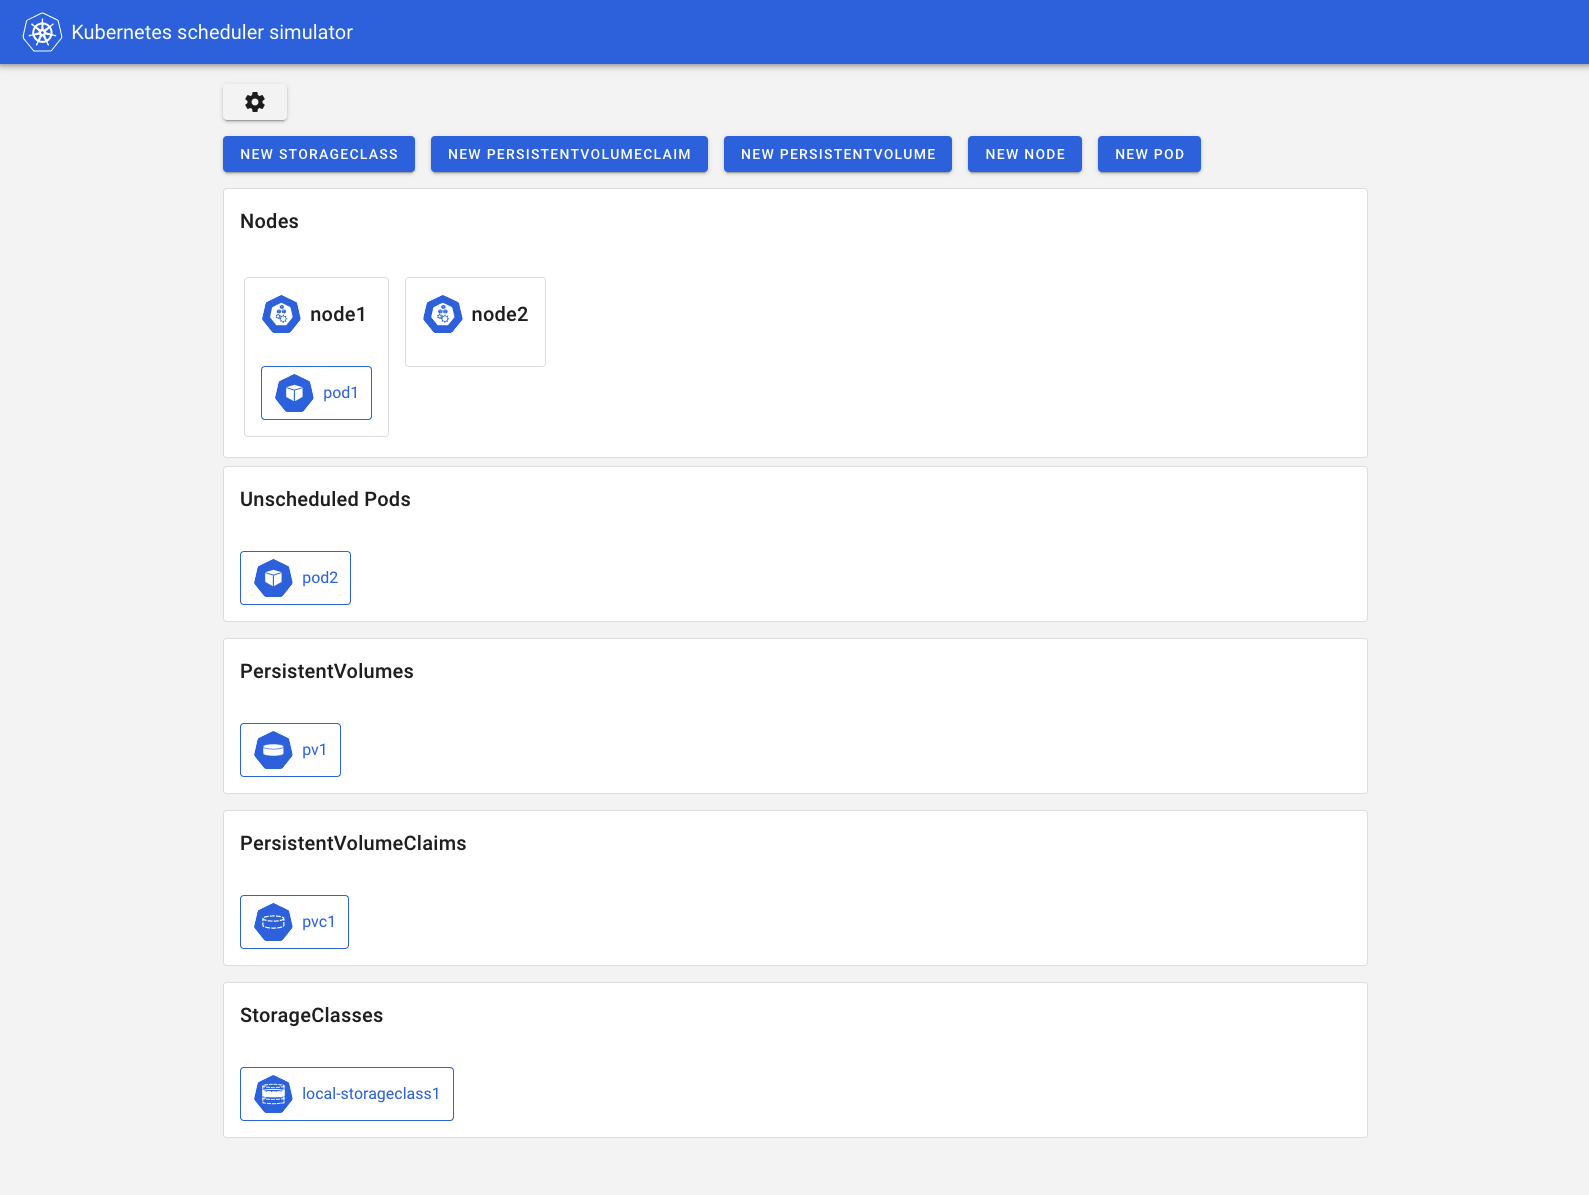
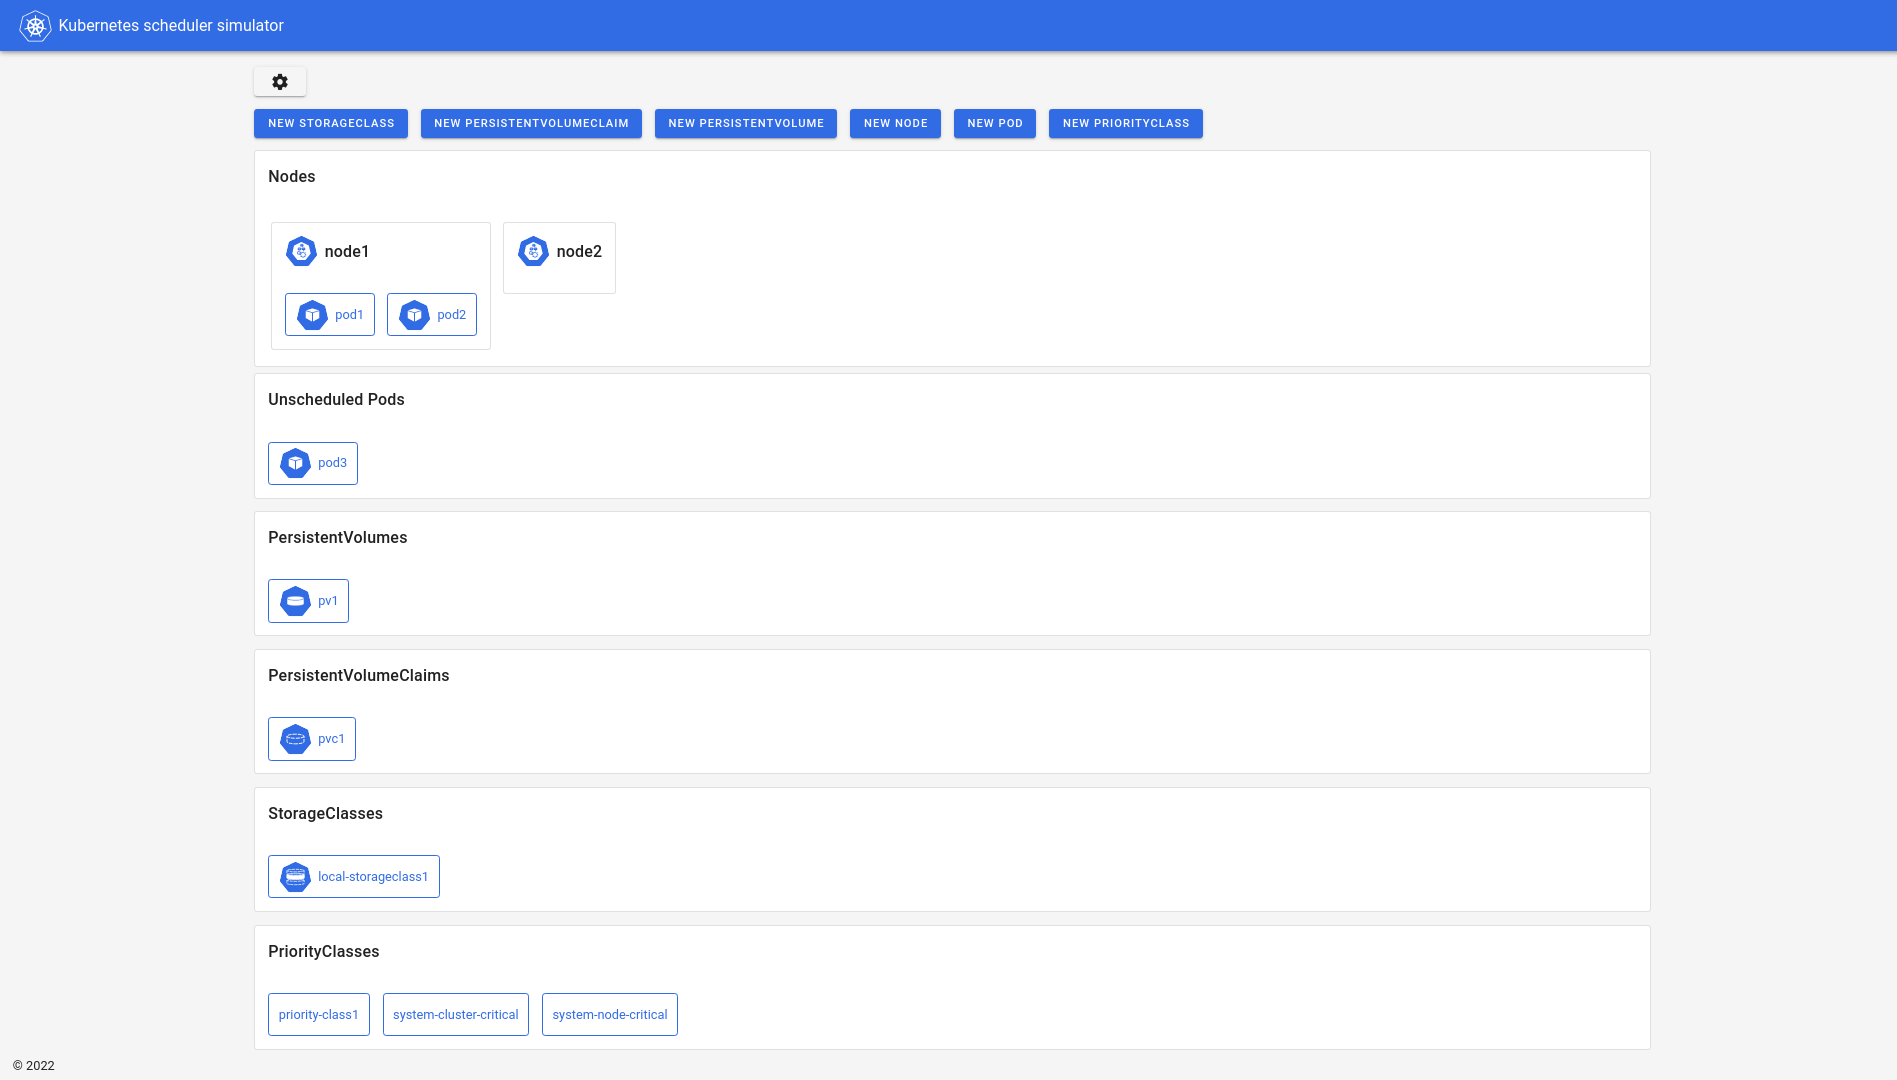
Update README.md to reflect the addition of PriorityClass (#78)
* Update image in README.md with prioritypod frontend

* Update how-it-works.md with priority classes

* Delete extra space complained about by lint frontend

Changed region(s): [[0.0, 0.0, 1.0, 0.9472], [0.0, 0.9778, 0.0308, 1.0]]

diff --git a/web/.eslintrc.js b/web/.eslintrc.js
@@ -1,7 +1,7 @@
 module.exports = {
   extends: [
     "eslint:recommended",
-    "plugin:vue/vue3-recommended", 
+    "plugin:vue/vue3-recommended",
     "@vue/typescript",
     "plugin:prettier/recommended",
     "prettier",

diff --git a/docs/how-it-works.md b/docs/how-it-works.md
@@ -23,6 +23,7 @@ Users can create resources below.
 - Persistent Volumes
 - Persistent Volume Claims
 - Storage Classes
+- Priority Classes
 
 When users request to create resources, the simulator server will create it with requesting kube-apiserver.
 

diff --git a/README.md b/README.md
@@ -9,6 +9,7 @@ On the simulator, you can create/edit/delete these resources to simulate a clust
 - Persistent Volumes
 - Persistent Volume Claims
 - Storage Classes
+- Priority Classes
 
 ![list resources](./docs/images/resources.png)
 
